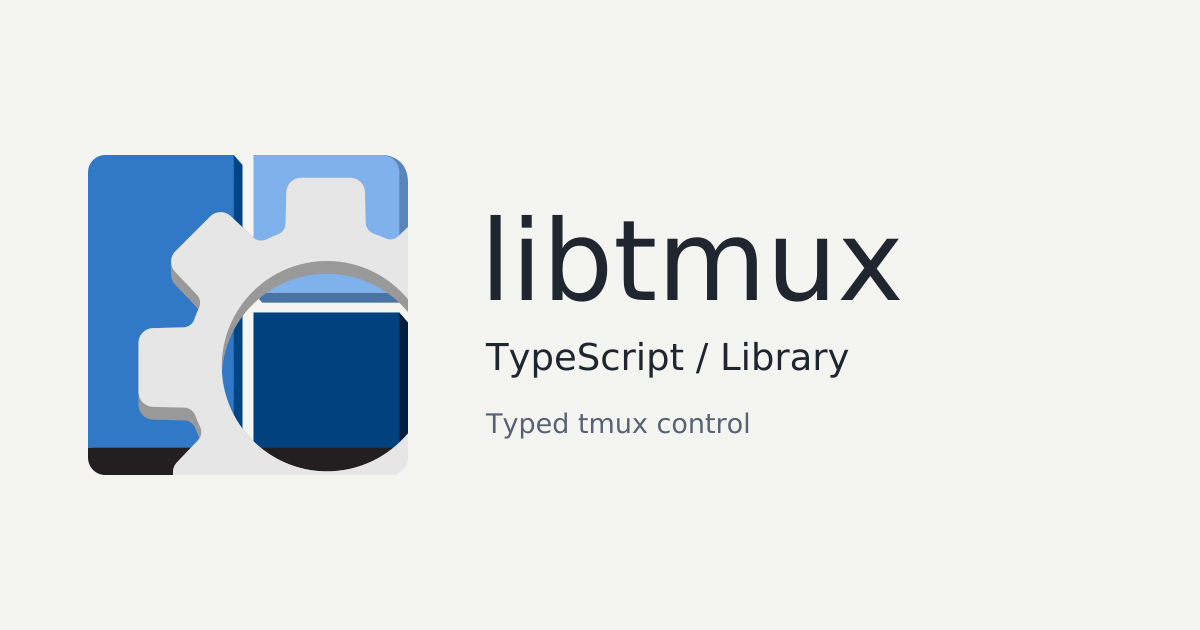
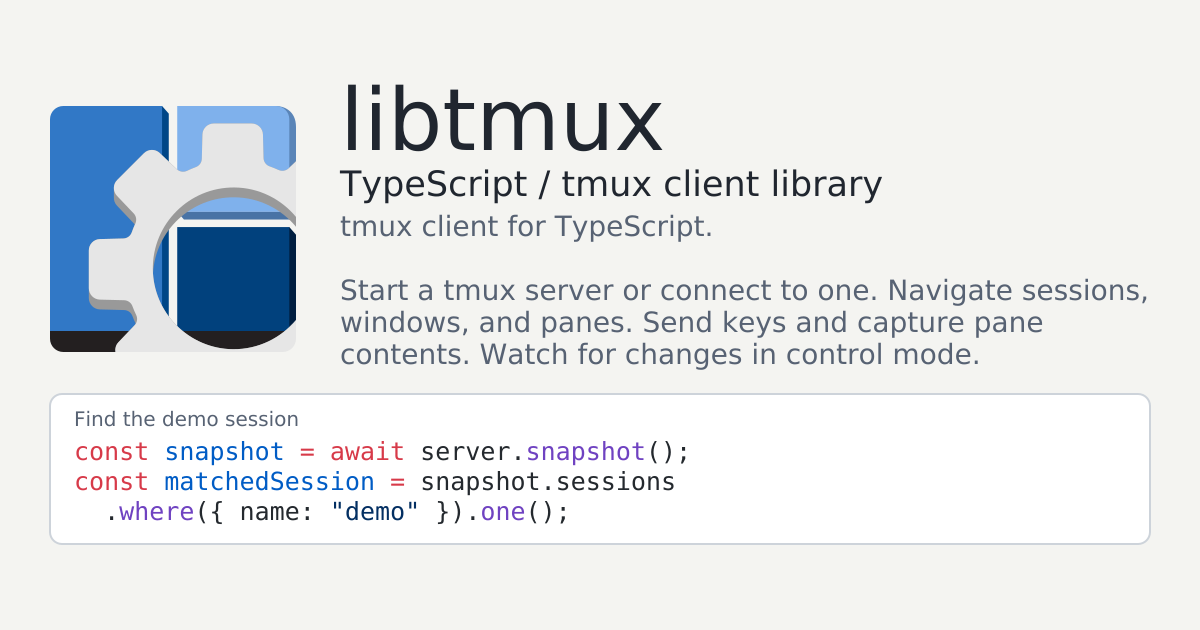
Docs(brand): Show a query on the sharing card
why: Sharing a library link should show how to query tmux in that
language.

what:
- Copy the reviewed sharing artwork and record its source revision

Changed region(s): [[0.0308, 0.1206, 0.9558, 0.8746]]

diff --git a/assets/README.md b/assets/README.md
@@ -12,3 +12,6 @@ symbol comes from the [upstream logo](https://github.com/modelcontextprotocol/mo
 Package-specific artwork sits beside its README where the package format
 supports it. `.github/social-preview.png` is the cog sharing card, ready to
 upload under the repository's **Settings → Social preview**.
+
+The sharing card comes from `assets/typescript/library/opengraph-light.png`
+at kit revision `c9688d9db25e4c522ff1255d0f3badaf27d780dd`.
